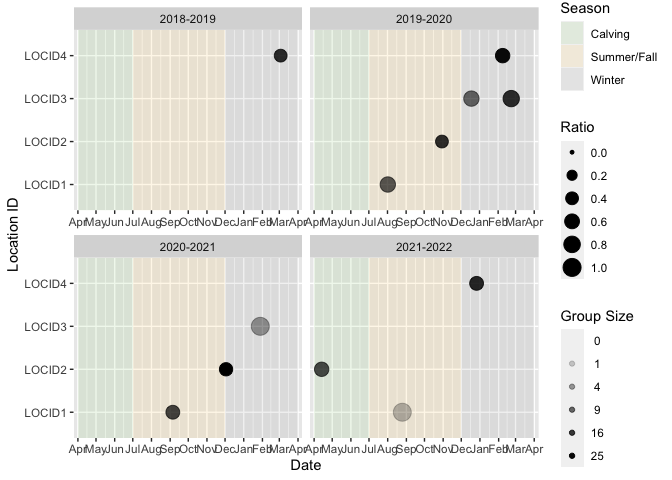
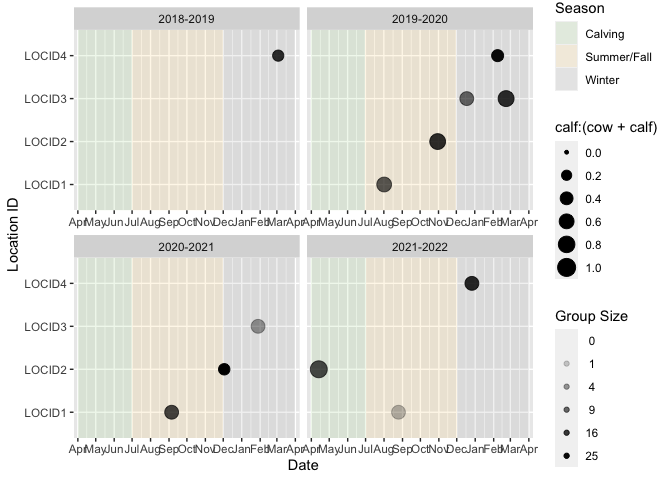
Change example plot

diff --git a/README.md b/README.md
@@ -56,14 +56,14 @@ bpt_plot_ratios(
 ![](README_files/figure-gfm/unnamed-chunk-3-1.png)<!-- -->
 
 Several age/sex classes can be combined to plot ratios of interest. For
-example, this plots the calf:(yearling + calf) ratio.
+example, this plots the calf:(cow + calf) ratio:
 
 ``` r
 bpt_plot_ratios(
   bpt_event_data, 
   bpt_location_data, 
-  numerator = c("f0", "m0"),
-  denominator = c("f1", "m1")
+  numerator = c("f0", "m0", "u0"),
+  denominator = c("fa")
 )
 ```
 
